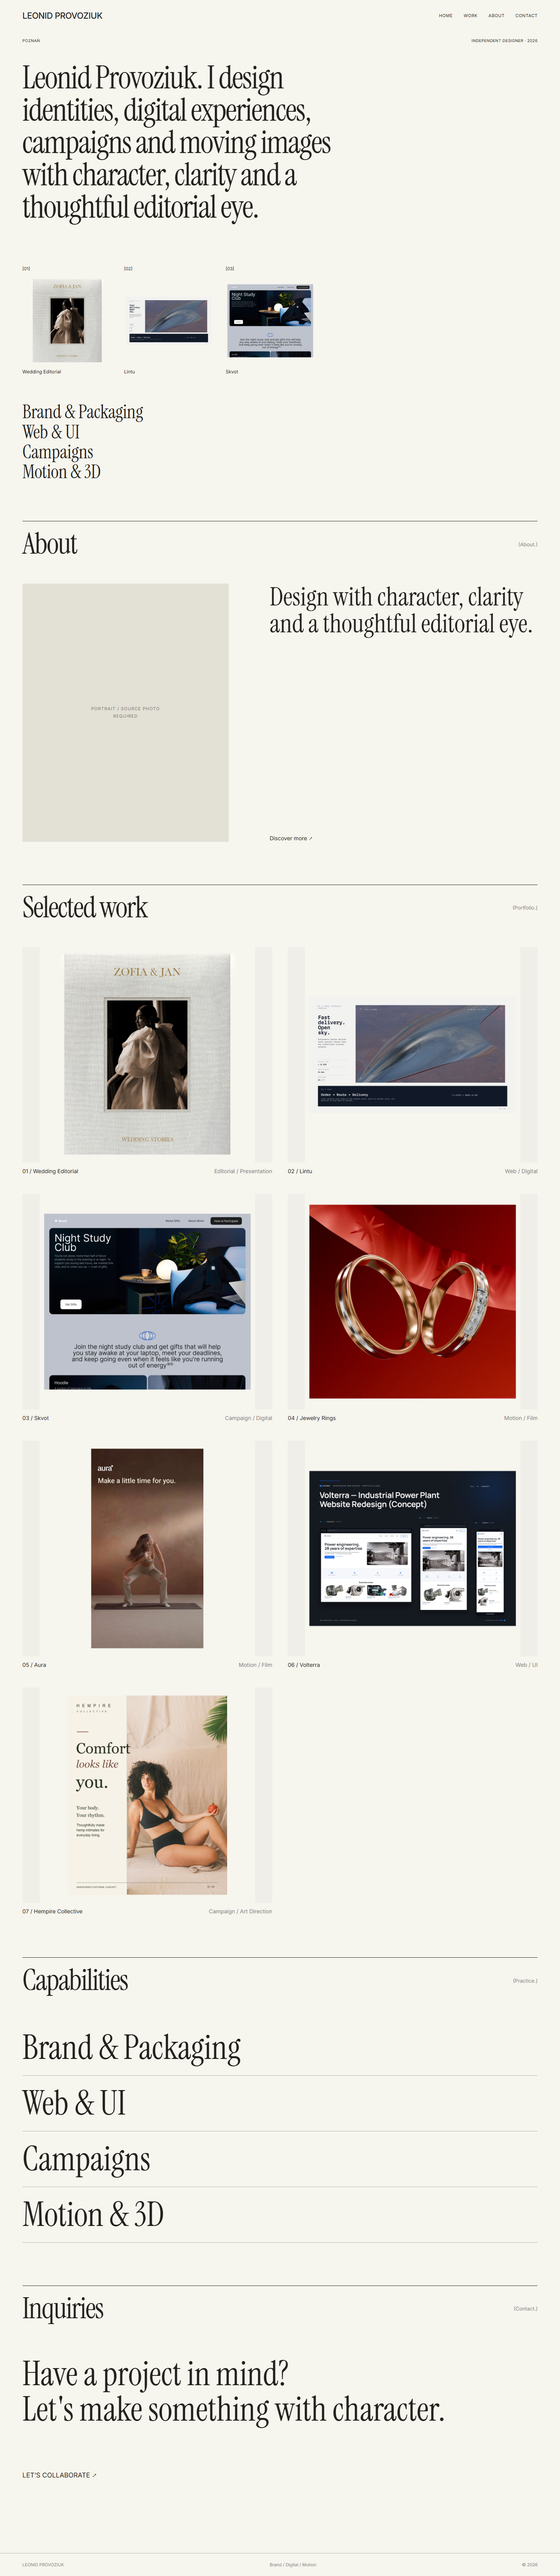
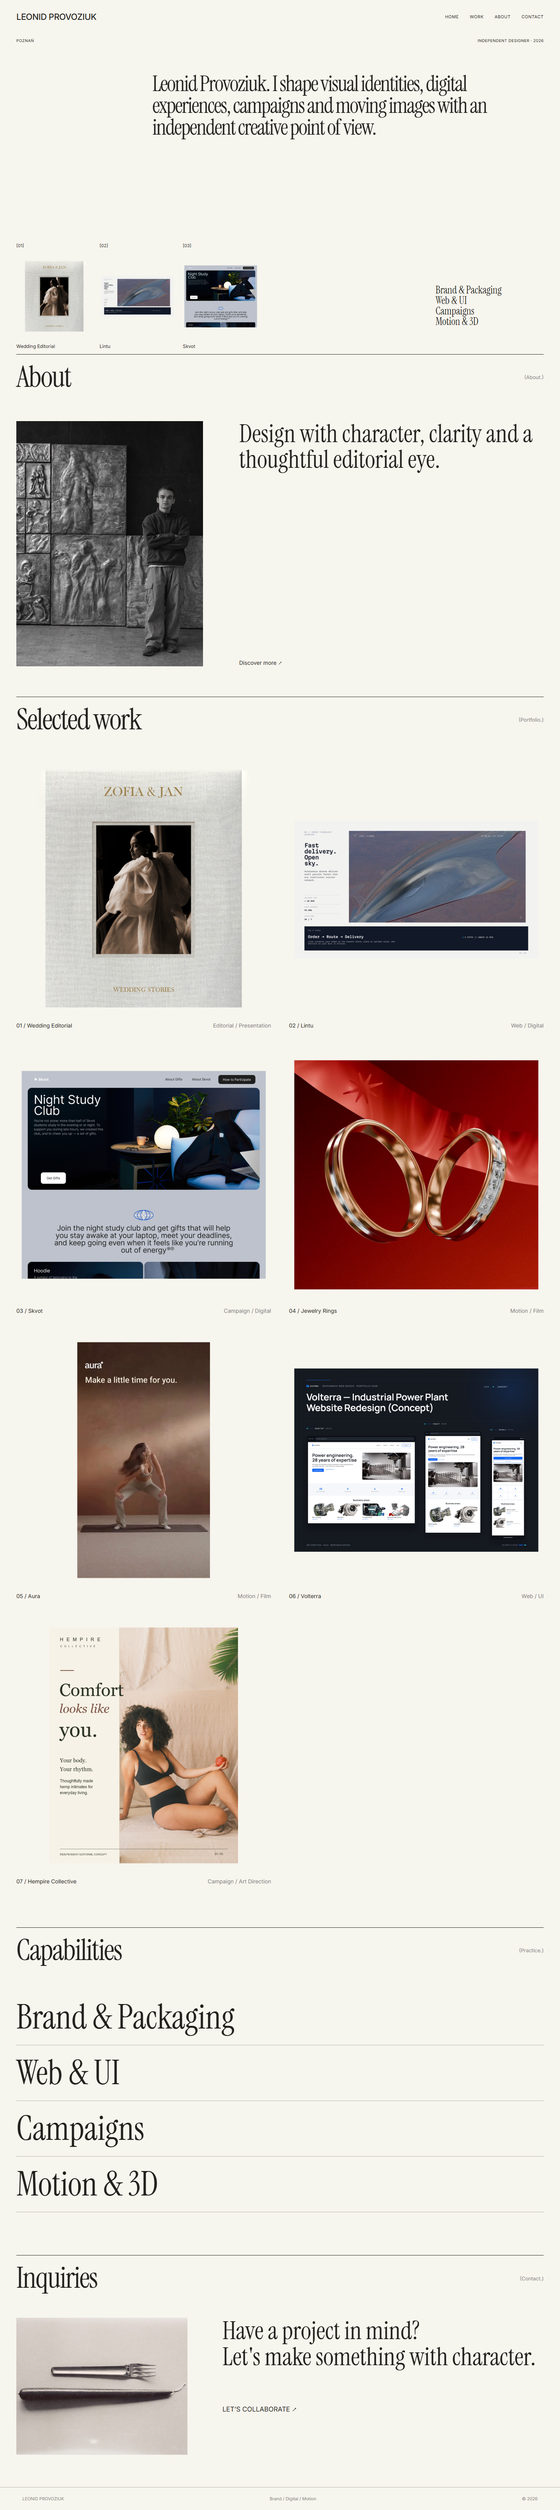
Align Figma section geometry and reuse original reference media

diff --git a/index.html b/index.html
@@ -79,17 +79,58 @@ footer{display:flex;justify-content:space-between;gap:12px;max-width:1500px;marg
  .home-about .about-copy p{font-size:38px}
  .home-contact>p{font-size:42px}
 }
+
+.desktop-headline{display:block}.mobile-headline{display:none}
+@media(min-width:861px){
+ header{height:86px;padding-left:42px;padding-right:42px}
+ main{max-width:none;padding-left:42px;padding-right:42px}
+ #home .home-kicker{margin-top:12px;margin-bottom:0;height:16px}
+ .home-hero{position:relative;height:796px}
+ #home h1{position:absolute;top:74px;left:calc(28% - 30px);width:calc(72% - 55px);max-width:920px;font-size:55px;letter-spacing:-2.2px;line-height:1.02;margin:0}
+ .featured{position:absolute;top:510px;left:0;grid-template-columns:repeat(3,195px);gap:19px;max-width:none}
+ .featured img{height:226px;object-fit:contain;object-position:left center}
+ .featured small{margin:0 0 10px}
+ .featured span{font-size:12px}
+ .hero-services{position:absolute;left:79.5%;top:618px;margin:0;font-size:26px;line-height:1.04}
+ .home-about{height:880px;padding-bottom:0}
+ .home-about .section-heading{margin-bottom:76px}
+ .about-content{grid-template-columns:480px minmax(0,1fr);gap:clamp(45px,6.5vw,93px)}
+ .home-about .about-art{width:480px;height:630px;aspect-ratio:auto}
+ .home-about .about-copy p{font-size:clamp(44px,4.4vw,64px)}
+ .home-work .section-heading{margin-bottom:72px}
+ #home .projects{gap:48px 46px}
+ #home .tile .square{aspect-ratio:1;object-fit:contain}
+ .home-contact{min-height:500px}
+}
+@media(max-width:860px){
+ .desktop-headline{display:none}.mobile-headline{display:block}
+}
+@media(max-width:600px){
+ .home-about{padding-bottom:0;height:1036px}
+ .home-about .about-copy{min-height:350px}
+ .home-about .about-copy a{margin-top:140px}
+ .home-work{padding-bottom:90px}
+ #home .projects{gap:46px}
+ #home .tile .square{max-height:none}
+ .home-capabilities .cap-lines p{font-size:39px}
+}
+
+.about-art{padding:0;overflow:hidden}
+.about-art img{width:100%;height:100%;display:block;object-fit:cover}
+.home-contact .inquiry-art{display:block;width:100%;max-width:520px;aspect-ratio:1080/864;object-fit:cover;margin:22px 0 42px}
+@media(min-width:861px){.home-contact{position:relative}.home-contact .inquiry-art{width:440px;float:left;margin:0 90px 60px 0}.home-contact>p{font-size:64px}}
+@media(max-width:600px){.home-contact .inquiry-art{width:100%;margin:0 0 30px}}
 </style></head><body>
 <header><a href="#home" class="brand">LEONID PROVOZIUK</a><button class="mobile-menu-toggle" id="mobileMenuToggle" aria-label="Open navigation" aria-expanded="false"><span></span><span></span></button><nav class="site-nav" id="siteNav"><a href="#home">HOME</a><a href="#work">WORK</a><a href="#about">ABOUT</a><a href="#contact">CONTACT</a></nav></header>
 <main>
 <section id="home">
 <div class="home-kicker"><span>POZNAŃ</span><span>INDEPENDENT DESIGNER · 2026</span></div>
-<section class="home-hero"><h1>Leonid Provoziuk. I design identities, digital experiences, campaigns and moving images with character, clarity and a thoughtful editorial eye.</h1>
+<section class="home-hero"><h1><span class="desktop-headline">Leonid Provoziuk. I shape visual identities, digital experiences, campaigns and moving images with an independent creative point of view.</span><span class="mobile-headline">Leonid Provoziuk. I design identities, digital experiences, campaigns and moving images with character, clarity and a thoughtful editorial eye.</span></h1>
 <div class="featured" id="featured"></div><div class="hero-services">Brand &amp; Packaging<br>Web &amp; UI<br>Campaigns<br>Motion &amp; 3D</div></section>
-<section class="home-about" id="about"><div class="section-heading"><h2>About</h2><span>(About.)</span></div><div class="about-content"><div class="about-art" role="img" aria-label="Editorial portrait pending approved source photograph"><span>PORTRAIT / SOURCE PHOTO REQUIRED</span></div><div class="about-copy"><p>Design with character, clarity and a thoughtful editorial eye.</p><a href="#contact">Discover more ↗</a></div></div></section>
+<section class="home-about" id="about"><div class="section-heading"><h2>About</h2><span>(About.)</span></div><div class="about-content"><div class="about-art"><img src="assets/figma_about_reference_placeholder.png" alt="Figma About visual reference — approved portrait not yet supplied" loading="lazy"></div><div class="about-copy"><p>Design with character, clarity and a thoughtful editorial eye.</p><a href="#contact">Discover more ↗</a></div></div></section>
 <section class="home-work" id="work"><div class="section-heading"><h2>Selected work</h2><span>(Portfolio.)</span></div><div class="projects" id="grid"></div></section>
 <section class="home-capabilities"><div class="section-heading"><h2>Capabilities</h2><span>(Practice.)</span></div><div class="cap-lines"><p>Brand &amp; Packaging</p><p>Web &amp; UI</p><p>Campaigns</p><p>Motion &amp; 3D</p></div></section>
-<section class="home-contact" id="contact"><div class="section-heading"><h2>Inquiries</h2><span>(Contact.)</span></div><p>Have a project in mind?<br>Let's make something with character.</p><a href="mailto:provoziukleonid@gmail.com">LET’S COLLABORATE ↗</a></section>
+<section class="home-contact" id="contact"><div class="section-heading"><h2>Inquiries</h2><span>(Contact.)</span></div><img class="inquiry-art" src="assets/figma_inquiry_reference_placeholder.png" alt="Inquiry visual from Figma reference" loading="eager"><p>Have a project in mind?<br>Let's make something with character.</p><a href="mailto:provoziukleonid@gmail.com">LET’S COLLABORATE ↗</a></section>
 </section>
 <section id="detail" hidden><div class="topline"><span id="category" class="tag"></span><button class="ctrl close-project" id="back" type="button" aria-label="Close project and return to selected work"><span>CLOSE</span><span class="close-icon" aria-hidden="true">×</span></button></div><h2 id="heading"></h2><p class="subtitle" id="description"></p><div id="preview" class="preview"></div><button id="explore" class="explore">EXPLORE COMPLETE PRESENTATION ↗</button><div class="viewer" id="viewer"></div><div class="controls" id="controls"><button class="ctrl" id="previous" aria-label="Previous slide">← Previous</button><span id="counter" aria-live="polite"></span><button class="ctrl" id="next" aria-label="Next slide">Next →</button></div><div class="thumbnails" id="thumbnails"></div><div class="note" id="note"></div></section>
 </main><footer><span>LEONID PROVOZIUK</span><span>Brand / Digital / Motion</span><span>© 2026</span></footer>
